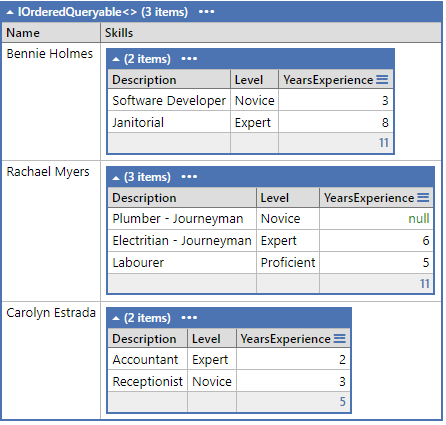
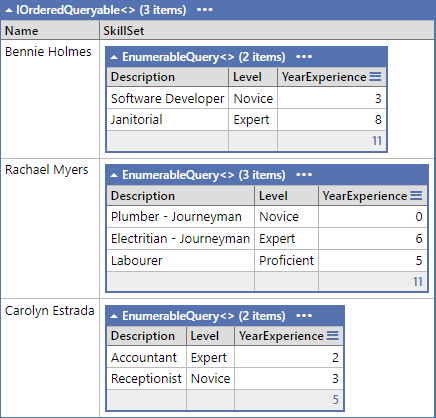
Updated images to reflect exercise

Changed region(s): [[0.0, 0.0, 1.0, 1.0]]

diff --git a/Linq2/Readme.md b/Linq2/Readme.md
@@ -4,8 +4,8 @@
 
 This exercise is based on the Work Schedule database. For this exercise, provide your answers as LinqPad (.linq) document(s). Use either A) a single LinqPad document for each question (you will use Expressions as the LinqPad environment) or B) a single LinqPad document containing all questions (you will need to use Statements as the LinqPad environment). You **must** do a commit after completing each question.
 <br>
-
 **NOTE:  Any aggregate that return a "null" value MUST be shown as a "0"**
+
 
 ![Schedule ERD](workschedule_erd_jan2021.png)
 
@@ -26,9 +26,9 @@ This exercise is based on the Work Schedule database. For this exercise, provide
     ![Employees with top years experience](q4.png)
 
 
-1. For the month of March, list the total earnings per employee along with the number of shifts, the regular earnings, and overtime earnings.
+1. For the month of September, list the total earnings per employee along with the number of shifts, the regular earnings, and overtime earnings.
 
-    **Note 1:** Remember that handling DateTime and TimeSpan calculations is best done in-memory; therefore, you should use a .ToList() in your linq's `from` clause so that the linq query is not converted to SQL.  
+    **Note 1:** Remember that handling DateTime and TimeSpan calculations is best done in-memory; therefore, you should use a .ToList() in your linq's method.  
 
     **Note 2:** When doing your earnings calculations, remember that it's permissible to use method syntax inside of your linq query syntax.
 
